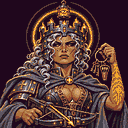
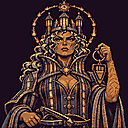
Paulina Macra's redone Vigil art: bust, sprite, splash and pose sheet
Aaron's new art set for IV-LUR replaces her first set. The pose sheet went in
through tools/intake_poses.py; her splash frame is re-measured.

Claude-Session: https://claude.ai/code/session_01GAmV637RWo6NRX4YHt1D6o

diff --git a/src/data/splashFrames.ts b/src/data/splashFrames.ts
@@ -14,5 +14,5 @@ export const SPLASH_FRAMES: Record<string, SplashFrame> = {
   'VT-SSR-VEI': [0.45, 0.3, 0.85],
   'DL-SSR-EXE': [0.45, 0.28, 0.85],
   // Living Saints (pixel-art splashes from the new roster)
-  'IV-LUR': [0.47, 0.14, 0.95],
+  'IV-LUR': [0.5, 0.15, 0.95],
 };
